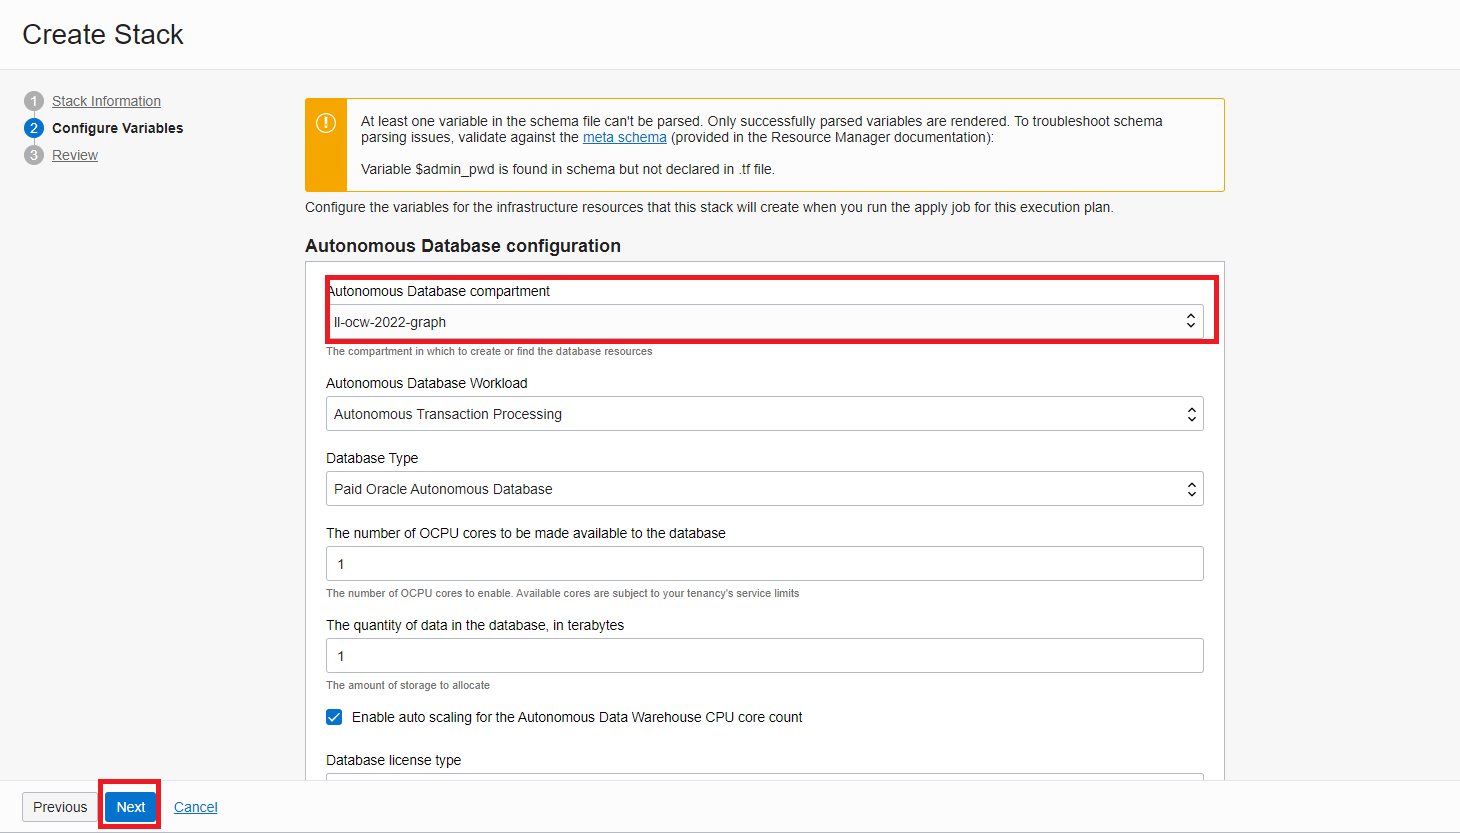
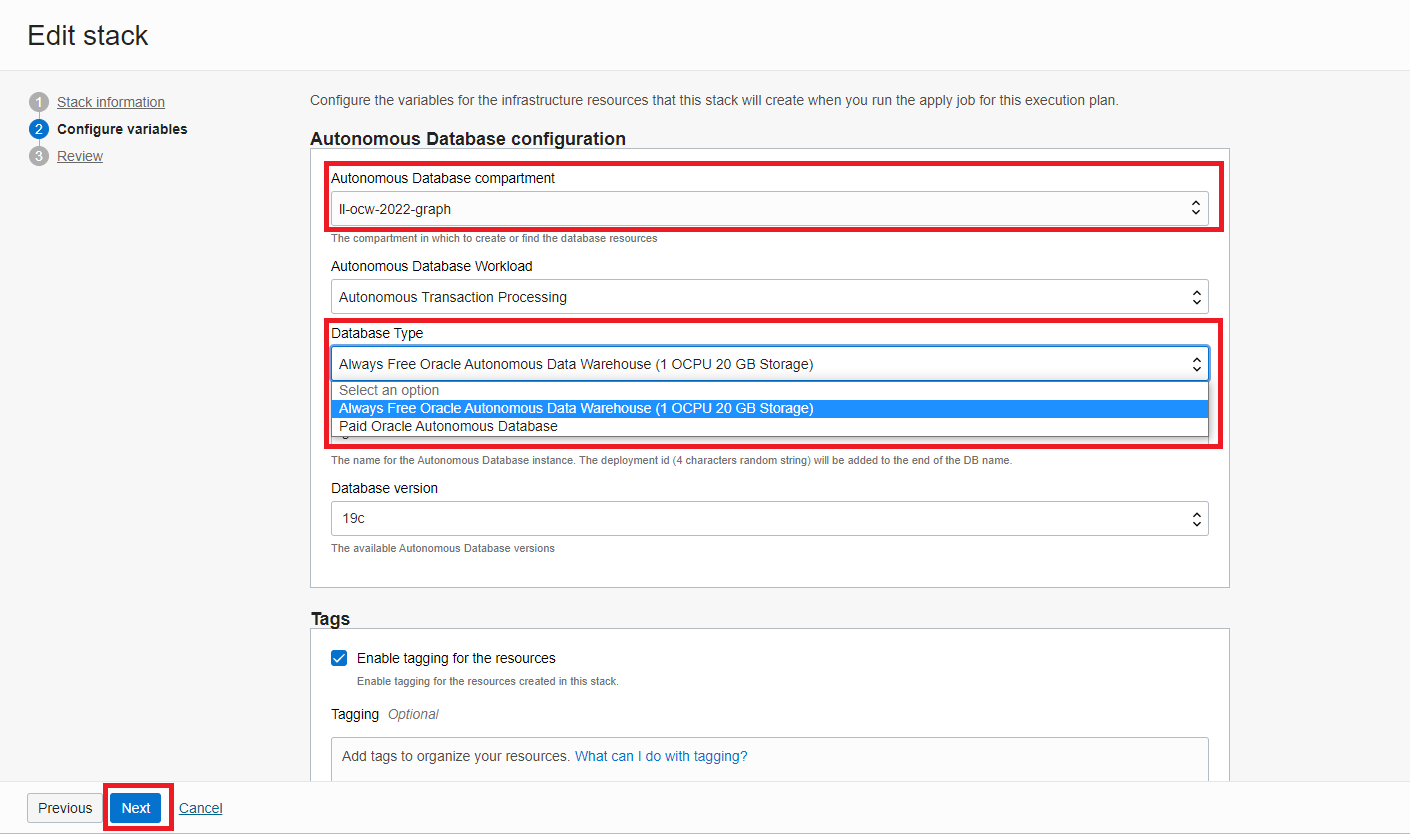
#4261-updated livelab and manifest

diff --git a/adb-graph/work-with-csv-files/setup/setup.md b/adb-graph/work-with-csv-files/setup/setup.md
@@ -29,7 +29,7 @@ The instructions below will show you how to run a stack that will automatically 
 
   ![Option to have reviewed and accept the Oracle Terms of Use checked](./images/oracle-terms.png "")
 
-5. Select the compartment to create the Autonomous Database and leave the rest as default. Click **Next**. After that you will be taken to the Review page, click **Create**.
+5. Select the **compartment** to create the Autonomous Database and the **Database Type as Always Free Oracle Autonomous Database Warehouse**. Click **Next**. After that you will be taken to the Review page, click **Create**.
 
   ![The create stack page](./images/configure-variables.png "")
 

diff --git a/adb-graph/graph-made-easy/rdf-graph-user-and-graph-studio/create-and-validate-an-rdf-graph-user.md b/adb-graph/graph-made-easy/rdf-graph-user-and-graph-studio/create-and-validate-an-rdf-graph-user.md
@@ -1,4 +1,4 @@
-# Lab 1: Create and Validate an RDF Graph User in Graph Studio
+# Lab 3: Create an RDF graph in Graph Studio
 
 ## Introduction
 Graph Studio in Oracle Autonomous Database enables users to model, create, query, and analyze graph data. It includes notebooks, developer APIs for executing graph queries using PGQL, 60+ built-in graph algorithms, and offers dozens of visualizations including native graph visualization.

diff --git a/adb-graph/graph-made-easy/destroy-environment/destroy-environment.md b/adb-graph/graph-made-easy/destroy-environment/destroy-environment.md
@@ -1,4 +1,4 @@
-# Destroy Environment: Delete Stack and Environment created
+# Clean-up
 
 ## Introduction
 
